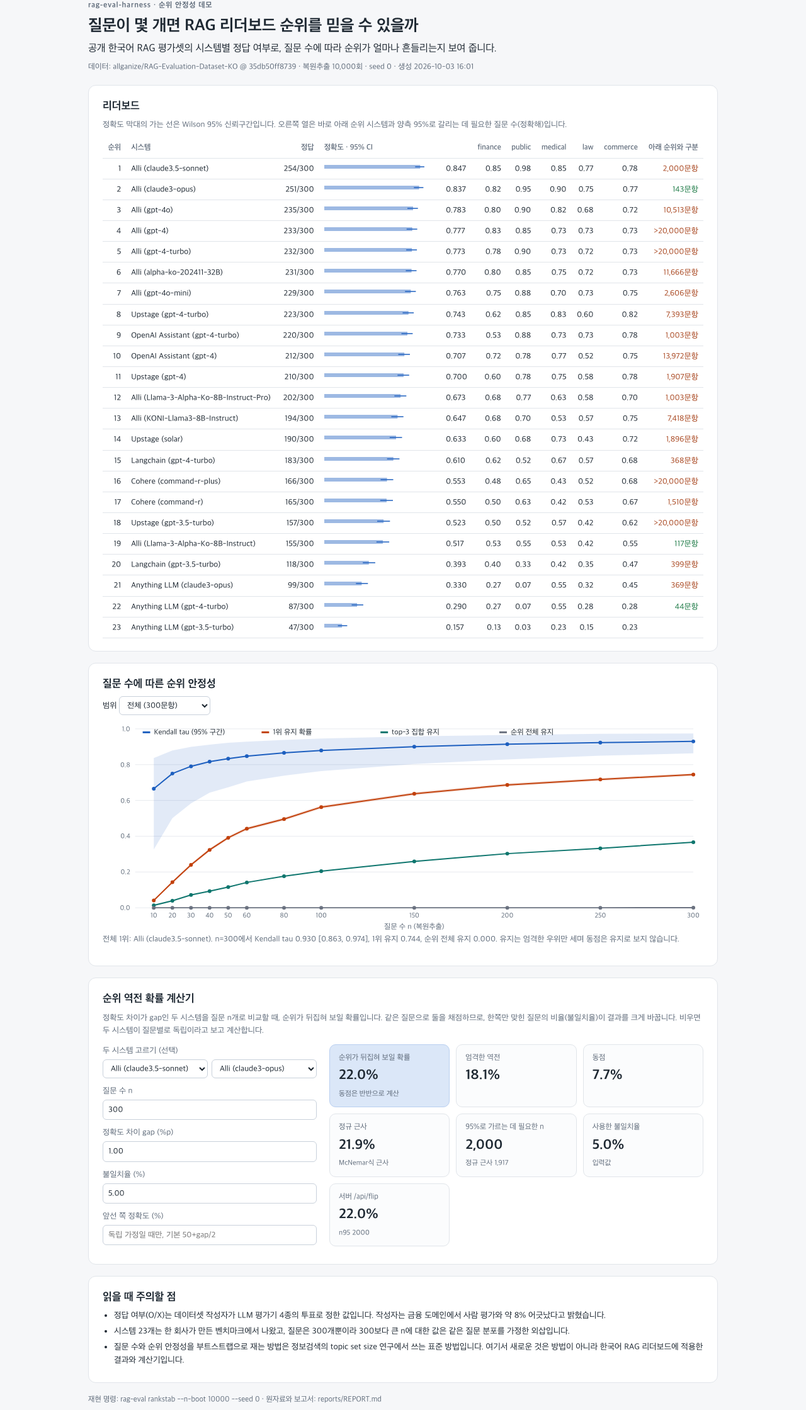
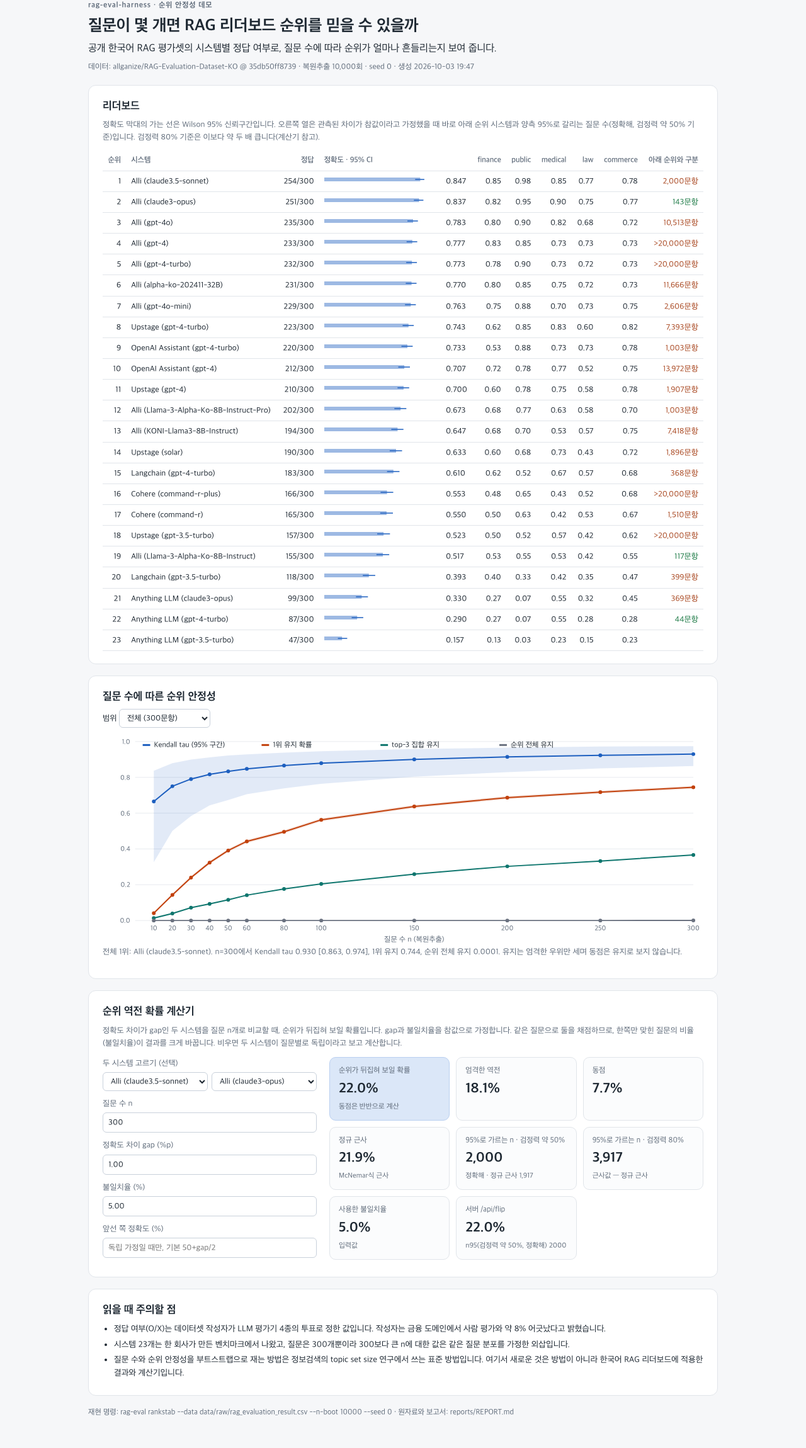
보고서·README 갱신: 반복 오차 구간 표기, 1-2위 McNemar p, 검정력 80% 기준, 순위 전체 유지 0.0001 표기

diff --git a/src/rag_eval/leaderboard_experiment.py b/src/rag_eval/leaderboard_experiment.py
@@ -153,6 +153,10 @@ def run(
             "n_sim_grid",
             "n_exact",
             "n_normal",
+            "n_power80_normal",
+            "n_upper_only",
+            "n_lower_only",
+            "mcnemar_p",
         ],
         [
             [
@@ -165,6 +169,10 @@ def run(
                 p["n_sim_grid"] if p["n_sim_grid"] is not None else "",
                 p["n_exact"] if p["n_exact"] is not None else "",
                 p["n_normal"],
+                p["n_power80_normal"],
+                p["n_pos"],
+                p["n_neg"],
+                p["mcnemar_p"],
             ]
             for p in pairs
         ],
@@ -284,10 +292,12 @@ def _plots(cm, overall, pairs, approx, domain_curves, sub: Path) -> None:
     labels = [f"{i + 1}-{i + 2}" for i in range(len(pairs))]
     exact = [p["n_exact"] if p["n_exact"] is not None else np.nan for p in pairs]
     normal = [p["n_normal"] for p in pairs]
+    power80 = [p["n_power80_normal"] for p in pairs]
     x = np.arange(len(pairs))
     fig, ax = plt.subplots(figsize=(9, 4))
-    ax.bar(x - 0.2, exact, width=0.4, label="exact (bootstrap distribution)")
-    ax.bar(x + 0.2, normal, width=0.4, label="normal approx")
+    ax.bar(x - 0.27, exact, width=0.27, label="~50% power, exact")
+    ax.bar(x, normal, width=0.27, label="~50% power, normal approx")
+    ax.bar(x + 0.27, power80, width=0.27, label="80% power, normal approx")
     ax.axhline(
         cm.X.shape[1],
         color="gray",
@@ -299,7 +309,7 @@ def _plots(cm, overall, pairs, approx, domain_curves, sub: Path) -> None:
     ax.set_xticks(x)
     ax.set_xticklabels(labels, rotation=90, fontsize=7)
     ax.set_xlabel("adjacent pair (overall rank i vs i+1)")
-    ax.set_ylabel("questions needed to separate at 95%")
+    ax.set_ylabel("questions to separate at 95%\n(observed gap taken as true)")
     ax.grid(alpha=0.3, axis="y")
     ax.legend(fontsize=8)
     fig.tight_layout()
@@ -400,7 +410,9 @@ def _render_report(cm, lb_rows, overall, pairs, approx, domain_curves, corr_rows
         "## 2. 질문 수에 따른 전체 순위 안정성",
         "",
         f"질문 n건을 {B}회 복원추출해 매긴 순위를 300문항 순위와 비교했습니다. "
-        "tau 구간은 반복값의 2.5~97.5 백분위, 확률 구간은 Wilson 95%(반복 수에서 오는 추정 오차)입니다. "
+        "tau 구간은 반복값의 2.5~97.5 백분위입니다. "
+        "확률 옆 구간은 반복 횟수에서 오는 몬테카를로 오차(Wilson 95%)일 뿐이며, "
+        "질문 표본 자체의 불확실성을 나타내지 않습니다. "
         "'유지'는 엄격한 우위만 셉니다(동점은 유지 아님). 원자료: `rank_stability/curve_overall.csv`",
         "",
     ]
@@ -414,7 +426,7 @@ def _render_report(cm, lb_rows, overall, pairs, approx, domain_curves, corr_rows
                 _f(1 - c["top1_held"]),
                 f"{_f(c['top3_held'])}" if "top3_held" in c else "—",
                 f"{_f(c['top5_held'])}" if "top5_held" in c else "—",
-                f"{_f(c['order_held'])}",
+                f"{_f(c['order_held'], 4)}",
             ]
         )
     p += [
@@ -422,7 +434,7 @@ def _render_report(cm, lb_rows, overall, pairs, approx, domain_curves, corr_rows
             [
                 "n",
                 "Kendall tau-b [95%]",
-                "1위 유지 [95%]",
+                "1위 유지 [반복 오차 95%]",
                 "1위 바뀜",
                 "top-3 집합 유지",
                 "top-5 집합 유지",
@@ -437,10 +449,13 @@ def _render_report(cm, lb_rows, overall, pairs, approx, domain_curves, corr_rows
         "",
         "## 3. 인접 순위 쌍을 가르는 데 필요한 질문 수",
         "",
-        "전체 순위에서 바로 이웃한 두 시스템마다, 차이의 부트스트랩 분포에서 P(위 시스템이 엄격히 앞섬) ≥ 0.975가 "
-        "되는(양측 95%로 갈리는) 질문 수입니다. "
-        "'격자'는 시뮬레이션 격자에서 그 n부터 끝까지 기준을 넘는 첫 값, '정확해'는 삼항 분포로 계산한 값, "
-        "'정규 근사'는 (1.96·σ/δ)²입니다(정확해 탐색 상한 20,000). 정확해·정규 근사가 300을 넘는 값은 같은 질문 분포를 가정한 외삽입니다. "
+        "전체 순위에서 바로 이웃한 두 시스템마다, 관측된 차이와 불일치율이 참값이라고 가정했을 때 "
+        "P(위 시스템이 엄격히 앞섬) ≥ 0.975가 되는(양측 95%로 갈리는) 질문 수입니다. "
+        "이 기준은 δ√n/σ ≈ 1.96 인 지점이라 검정력 약 50%에 해당합니다(그 n으로 새로 평가하면 절반쯤만 유의하게 갈림). "
+        "검정력 80% 기준은 ((1.96 + 0.84)·σ/δ)² 정규 근사로 따로 적었습니다. "
+        "'격자'는 시뮬레이션 격자에서 그 n부터 끝까지 기준을 넘는 첫 값, '정확해'는 삼항 분포로 계산한 값입니다(탐색 상한 20,000). "
+        "300을 넘는 값은 같은 질문 분포를 가정한 외삽입니다. "
+        "'위만/아래만'은 300문항 중 한쪽만 맞힌 질문 수이고, McNemar p는 그 불일치 쌍에 대한 양측 정확 검정입니다. "
         "원자료: `rank_stability/adjacent_pairs.csv`",
         "",
     ]
@@ -453,14 +468,29 @@ def _render_report(cm, lb_rows, overall, pairs, approx, domain_curves, corr_rows
                 pr["lower"],
                 _f(pr["gap"]),
                 _f(pr["discordance"]),
+                f"{pr['n_pos']}/{pr['n_neg']}",
+                "<0.0001" if pr["mcnemar_p"] < 1e-4 else _f(pr["mcnemar_p"], 4),
                 str(pr["n_sim_grid"]) if pr["n_sim_grid"] is not None else f">{Q}",
                 str(pr["n_exact"]) if pr["n_exact"] is not None else ">20000",
                 f"{pr['n_normal']:.0f}" if math.isfinite(pr["n_normal"]) else "—",
+                f"{pr['n_power80_normal']:.0f}" if math.isfinite(pr["n_power80_normal"]) else "—",
             ]
         )
     p += [
         _table(
-            ["순위", "위", "아래", "정확도 차", "불일치율", "격자(≤300)", "정확해", "정규 근사"],
+            [
+                "순위",
+                "위",
+                "아래",
+                "정확도 차",
+                "불일치율",
+                "위만/아래만",
+                "McNemar p",
+                "검정력 50%: 격자(≤300)",
+                "검정력 50%: 정확해",
+                "검정력 50%: 정규 근사",
+                "검정력 80%: 정규 근사",
+            ],
             body,
         ),
         "",
@@ -585,7 +615,13 @@ def _write_web(web_dir: Path, cm, lb_rows, overall, pairs, domain_curves, corr_r
             s: "".join(str(int(v)) for v in cm.X[i]) for i, s in enumerate(cm.systems)
         },
         "pairs": [
-            {**p, "n_normal": p["n_normal"] if math.isfinite(p["n_normal"]) else None}
+            {
+                **p,
+                "n_normal": p["n_normal"] if math.isfinite(p["n_normal"]) else None,
+                "n_power80_normal": (
+                    p["n_power80_normal"] if math.isfinite(p["n_power80_normal"]) else None
+                ),
+            }
             for p in pairs
         ],
     }

diff --git a/README.md b/README.md
@@ -14,7 +14,7 @@
 
 - 데이터 로더: Hugging Face 데이터셋을 고정 리비전에서 받아 SHA-256을 확인하고, 시스템 × 질문 정답 행렬과 도메인 라벨로 변환(O/X가 아닌 값이 있으면 오류)
 - 순위 안정성 분석: 질문 수 n별 부트스트랩으로 전체 순위와의 Kendall tau, 1위 유지 확률, top-3·top-5 집합 유지 확률, 순위 전체 유지 확률과 구간
-- 인접 순위 쌍 분석: 바로 이웃한 두 시스템을 양측 95%로 가르는 데 필요한 질문 수를 시뮬레이션·정확해·정규 근사로 각각 계산
+- 인접 순위 쌍 분석: 관측된 차이가 참값이라고 가정했을 때 바로 이웃한 두 시스템을 양측 95%로 가르는 질문 수(검정력 약 50% 기준: 시뮬레이션·정확해·정규 근사, 검정력 80% 기준: 정규 근사)와 300문항에서의 McNemar 정확 검정 p
 - 해석적 교차 검증: 쌍별 차이의 정확한 분포(삼항 분포의 합)와 McNemar식 정규 근사를 시뮬레이션과 비교
 - 도메인별 분석: 도메인(각 60문항) 1위와 1위가 될 확률, 도메인 순위와 전체 순위의 상관
 - 순위 역전 확률 계산기: n, 정확도 차이, 불일치율(선택)로 역전 확률과 필요한 질문 수를 계산하는 Python 함수, FastAPI 엔드포인트, 같은 식의 JavaScript 구현
@@ -59,7 +59,7 @@ make serve      # http://localhost:8000 — 데모 화면과 API
 |---|---|
 | `GET /api/leaderboard` | 정확도, Wilson 95% 구간, 도메인별 정확도 |
 | `GET /api/stability` | 전체·도메인별 안정성 곡선, 인접 쌍 분석 |
-| `GET /api/flip?n=&gap=&discordance=&accuracy=` | 역전 확률(정확해·정규 근사), 95%로 가르는 데 필요한 n |
+| `GET /api/flip?n=&gap=&discordance=&accuracy=` | 역전 확률(정확해·정규 근사), gap이 참값이라고 가정했을 때 95%로 가르는 n(검정력 약 50%·80%) |
 
 계산기는 라이브러리로도 씁니다.
 
@@ -67,7 +67,9 @@ make serve      # http://localhost:8000 — 데모 화면과 API
 from rag_eval.rankstab import flip_probability
 
 flip_probability(n=300, gap=0.01, discordance=0.05)
-# p_flip, p_reverse, p_tie, p_flip_normal, n_95_exact, n_95_normal
+# p_flip, p_reverse, p_tie, p_flip_normal,
+# n_95_exact, n_95_normal (gap이 참값이라고 가정한 양측 95% 분리, 검정력 약 50%),
+# n_power80_normal (같은 가정, 검정력 80%)
 ```
 
 <img src="docs/screenshots/demo.png" alt="데모 화면 — 리더보드, 안정성 곡선, 순위 역전 확률 계산기" width="820">
@@ -78,19 +80,19 @@ flip_probability(n=300, gap=0.01, discordance=0.05)
 
 데이터는 `allganize/RAG-Evaluation-Dataset-KO` 리비전 `35db50ff`의 시스템 23개 × 질문 300개(금융·공공·의료·법률·커머스 각 60개)입니다. 질문 집합을 복원추출 10,000회(seed 0) 재추출했습니다. 재현 정보와 전체 표는 [reports/REPORT.md](reports/REPORT.md)에 있습니다.
 
-질문 수에 따른 전체 순위 안정성 (`reports/rank_stability/curve_overall.csv`). tau 구간은 반복값의 2.5~97.5 백분위, 1위 유지 구간은 Wilson 95%입니다. 유지는 엄격한 우위만 세며 동점은 유지로 보지 않습니다.
+질문 수에 따른 전체 순위 안정성 (`reports/rank_stability/curve_overall.csv`). tau 구간은 반복값의 2.5~97.5 백분위입니다. 1위 유지 확률 옆 구간은 10,000회 반복에서 오는 반복(몬테카를로) 오차의 Wilson 95% 구간일 뿐이며, 질문 표본 자체의 불확실성은 나타내지 않습니다. 유지는 엄격한 우위만 세며 동점은 유지로 보지 않습니다.
 
-| 질문 수 n | Kendall tau-b [95%] | 1위 유지 확률 [95%] | top-3 집합 유지 | 순위 전체 유지 |
+| 질문 수 n | Kendall tau-b [95%] | 1위 유지 확률 [반복 오차 95%] | top-3 집합 유지 | 순위 전체 유지 |
 |---:|---|---|---:|---:|
-| 30 | 0.791 [0.583, 0.899] | 0.240 [0.231, 0.248] | 0.072 | 0.000 |
-| 50 | 0.833 [0.674, 0.922] | 0.391 [0.382, 0.401] | 0.116 | 0.000 |
-| 100 | 0.879 [0.764, 0.946] | 0.562 [0.553, 0.572] | 0.204 | 0.000 |
-| 300 | 0.930 [0.863, 0.974] | 0.744 [0.736, 0.753] | 0.366 | 0.000 |
+| 30 | 0.791 [0.583, 0.899] | 0.240 [0.231, 0.248] | 0.072 | 0.0000 |
+| 50 | 0.833 [0.674, 0.922] | 0.391 [0.382, 0.401] | 0.116 | 0.0000 |
+| 100 | 0.879 [0.764, 0.946] | 0.562 [0.553, 0.572] | 0.204 | 0.0000 |
+| 300 | 0.930 [0.863, 0.974] | 0.744 [0.736, 0.753] | 0.366 | 0.0001 |
 
-- 전체 300문항 기준 1위(Alli claude3.5-sonnet, 254/300)와 2위(Alli claude3-opus, 251/300)의 차이는 3문항입니다. 같은 크기(300문항)의 평가셋을 다시 뽑으면 1위가 유지되는 비율은 0.744 [0.736, 0.753]입니다 (`reports/rank_stability/curve_overall.csv`, n = 300).
-- 두 시스템 중 한쪽만 맞힌 질문은 15개(불일치율 0.050)입니다. 이 차이를 양측 95%로 가르려면 같은 질문 분포에서 정확해 기준 2,000문항, 정규 근사 기준 1,917문항이 필요합니다. 300을 넘는 값은 외삽입니다 (`reports/rank_stability/adjacent_pairs.csv`, 1-2위 쌍).
-- 바로 이웃한 순위 쌍 22개 중 300문항 안에서 정확해 기준으로 갈리는 쌍은 3개입니다(2-3위 143문항, 19-20위 117문항, 22-23위 44문항). 나머지 19개 쌍은 300문항으로 가를 수 없습니다 (`reports/rank_stability/adjacent_pairs.csv`).
-- 23개 시스템의 순위 전체가 유지된 경우는 n = 300에서도 10,000회 중 1회였습니다 (`reports/rank_stability/curve_overall.csv`, `order_held`).
+- 전체 300문항 기준 1위(Alli claude3.5-sonnet, 254/300)와 2위(Alli claude3-opus, 251/300)의 차이는 3문항입니다. 같은 크기(300문항)의 평가셋을 다시 뽑으면 1위가 유지되는 비율은 0.744입니다 (`reports/rank_stability/curve_overall.csv`, n = 300). 이 값의 실제 불확실성은 위 반복 오차 구간보다 훨씬 큽니다. 0.744는 두 시스템 중 한쪽만 맞힌 15개 질문이 9 대 6으로 갈린 결과 하나에 기대고 있고, 이 9 대 6 자체가 McNemar 정확 검정으로 p = 0.6072여서 우연과 구별되지 않습니다 (`reports/rank_stability/adjacent_pairs.csv`, 1-2위 쌍 `mcnemar_p`).
+- 관측된 차이(0.010)와 불일치율(0.050)이 참값이라고 가정하면, 1-2위를 양측 95%로 가르는 질문 수는 정확해 2,000문항(정규 근사 1,917문항)입니다. 이 기준은 δ√n/σ ≈ 1.96인 지점이라 검정력 약 50%에 해당하며, 같은 가정에서 검정력 80% 기준은 정규 근사로 3,917문항입니다. 모두 300을 넘는 외삽입니다 (`reports/rank_stability/adjacent_pairs.csv`, 1-2위 쌍 `n_exact`·`n_normal`·`n_power80_normal`).
+- 바로 이웃한 순위 쌍 22개 중, 관측 차이가 참값이라고 가정한 검정력 약 50% 기준(정확해)으로 300문항 안에서 갈리는 쌍은 3개입니다(2-3위 143문항, 19-20위 117문항, 22-23위 44문항). 같은 가정에서 검정력 80% 기준(정규 근사)은 각각 268, 221, 80문항입니다. 나머지 19개 쌍은 검정력 50% 기준으로도 300문항으로 가를 수 없습니다 (`reports/rank_stability/adjacent_pairs.csv`).
+- 23개 시스템의 순위 전체가 유지된 비율은 n = 300에서 0.0001(10,000회 중 1회)이었습니다 (`reports/rank_stability/curve_overall.csv`, `order_held`).
 
 시뮬레이션과 해석해 비교 (`reports/rank_stability/approx_check.csv`, 인접 쌍 22개 × n 12개 = 264개 지점):
 
@@ -153,7 +155,7 @@ rag-eval-harness/
 - 데이터를 쓰기 전에 데이터셋 카드와 파일을 대조했습니다. 23개 `*_ox` 열의 도메인별 정답 수가 카드의 리더보드 표와 모두 일치했고, 결측값은 없었습니다. 카드와 이름이 다른 열이 하나(`alli_Llama-3-Ko-8B-Finance-Evol` ↔ 카드의 "Alli (Llama-3-Alpha-Ko-8B-Instruct-Pro)") 있어, 정답 수가 도메인별로 모두 같은 것을 확인하고 카드 표기로 맞췄습니다.
 - 원본 CSV는 저장소에 넣지 않았습니다. MIT 라이선스라 넣을 수는 있지만 각 시스템의 답변 전문이 들어 있어 약 5.7MB이고, 분석에는 정답 여부만 필요합니다. 고정 리비전에서 받아 SHA-256을 확인하는 스크립트를 두고, 분석에 쓰는 0/1 행렬(파생 자료)만 `reports/`에 커밋했습니다.
 - 부트스트랩 결과를 정확해로 검증했습니다. 복원추출에서 두 시스템 차이의 합은 질문별 차이(+1, 0, -1)의 경험 분포를 따르는 삼항 분포의 합이므로 정확히 계산할 수 있습니다. 시뮬레이션과 정확해의 차이는 몬테카를로 오차뿐이어야 하고, 실제로 264개 지점에서 최대 0.016이었습니다.
-- "필요한 질문 수"는 "그 n부터 계속 기준을 넘는 최소 n"으로 정의했습니다. 짝수 n에서는 동점 확률 때문에 바로 앞 홀수 n보다 우위 확률이 낮아질 수 있어, 처음 기준을 넘는 n을 답으로 하면 그 다음 n에서 다시 기준 아래로 떨어지는 경우가 생깁니다. 홀수·짝수를 따로 탐색하고, 전수 탐색 결과와 같은지 테스트로 확인합니다.
+- "필요한 질문 수"는 관측된 차이와 불일치율을 참값으로 놓고 계산한 값입니다. P(우위) ≥ 0.975 기준은 δ√n/σ ≈ 1.96인 지점이라 검정력 약 50%에 해당하므로, 계획용으로는 검정력 80% 기준(약 두 배)을 함께 봐야 합니다. 그리고 "그 n부터 계속 기준을 넘는 최소 n"으로 정의했습니다. 짝수 n에서는 동점 확률 때문에 바로 앞 홀수 n보다 우위 확률이 낮아질 수 있어, 처음 기준을 넘는 n을 답으로 하면 그 다음 n에서 다시 기준 아래로 떨어지는 경우가 생깁니다. 홀수·짝수를 따로 탐색하고, 전수 탐색 결과와 같은지 테스트로 확인합니다.
 - 동점은 유지로 세지 않았습니다. 정확도가 1문항 단위로 갈리는 데이터라 재추출에서 동점이 자주 나옵니다. 동점을 유지로 세면 안정성이 실제보다 좋아 보이므로 1위·top-k·순위 전체 유지는 모두 엄격한 우위만 셉니다. 계산기의 역전 확률은 동점을 반반으로 나눈 값과 엄격한 역전·동점 확률을 따로 보여 줍니다.
 - 계산기는 불일치율을 입력으로 받습니다. 같은 질문으로 두 시스템을 채점하면 분산은 정확도가 아니라 한쪽만 맞힌 질문의 비율에 달려 있습니다. 이 데이터의 인접 순위 쌍에서도 같은 플랫폼끼리인 11쌍은 불일치율이 0.050~0.200(중앙값 0.147), 다른 플랫폼끼리인 11쌍은 0.160~0.443(중앙값 0.297)이었습니다(`reports/rank_stability/adjacent_pairs.csv`, 플랫폼은 시스템 이름의 괄호 앞부분으로 구분). 불일치율을 모를 때만 두 시스템이 독립이라고 가정합니다.
 - 웹 화면의 계산은 Python과 같은 식을 JavaScript로 옮겼고, Node가 있는 환경에서는 테스트가 두 구현의 결과를 비교합니다. 화면은 `results.json`만 읽어 정적 배포가 가능하고, 서버가 있으면 서버 결과를 함께 표시합니다.

diff --git a/reports/REPORT.md b/reports/REPORT.md
@@ -1,6 +1,6 @@
 # 한국어 RAG 리더보드 순위 안정성 — 실험 보고서
 
-생성: 2026-10-03 16:02 · `rag_eval.leaderboard_experiment` 가 자동 생성 (숫자를 손으로 적지 않음)
+생성: 2026-10-03 19:47 · `rag_eval.leaderboard_experiment` 가 자동 생성 (숫자를 손으로 적지 않음)
 
 ## 재현 정보
 
@@ -47,22 +47,22 @@
 
 ## 2. 질문 수에 따른 전체 순위 안정성
 
-질문 n건을 10000회 복원추출해 매긴 순위를 300문항 순위와 비교했습니다. tau 구간은 반복값의 2.5~97.5 백분위, 확률 구간은 Wilson 95%(반복 수에서 오는 추정 오차)입니다. '유지'는 엄격한 우위만 셉니다(동점은 유지 아님). 원자료: `rank_stability/curve_overall.csv`
+질문 n건을 10000회 복원추출해 매긴 순위를 300문항 순위와 비교했습니다. tau 구간은 반복값의 2.5~97.5 백분위입니다. 확률 옆 구간은 반복 횟수에서 오는 몬테카를로 오차(Wilson 95%)일 뿐이며, 질문 표본 자체의 불확실성을 나타내지 않습니다. '유지'는 엄격한 우위만 셉니다(동점은 유지 아님). 원자료: `rank_stability/curve_overall.csv`
 
-| n | Kendall tau-b [95%] | 1위 유지 [95%] | 1위 바뀜 | top-3 집합 유지 | top-5 집합 유지 | 순위 전체 유지 |
+| n | Kendall tau-b [95%] | 1위 유지 [반복 오차 95%] | 1위 바뀜 | top-3 집합 유지 | top-5 집합 유지 | 순위 전체 유지 |
 |---|---|---|---|---|---|---|
-| 10 | 0.665 [0.326, 0.837] | 0.041 [0.037, 0.045] | 0.959 | 0.013 | 0.008 | 0.000 |
-| 20 | 0.750 [0.501, 0.879] | 0.143 [0.136, 0.150] | 0.857 | 0.039 | 0.018 | 0.000 |
-| 30 | 0.791 [0.583, 0.899] | 0.240 [0.231, 0.248] | 0.760 | 0.072 | 0.030 | 0.000 |
-| 40 | 0.817 [0.644, 0.912] | 0.324 [0.315, 0.333] | 0.676 | 0.093 | 0.043 | 0.000 |
-| 50 | 0.833 [0.674, 0.922] | 0.391 [0.382, 0.401] | 0.609 | 0.116 | 0.053 | 0.000 |
-| 60 | 0.848 [0.705, 0.928] | 0.442 [0.432, 0.452] | 0.558 | 0.142 | 0.056 | 0.000 |
-| 80 | 0.866 [0.738, 0.938] | 0.496 [0.486, 0.505] | 0.504 | 0.176 | 0.074 | 0.000 |
-| 100 | 0.879 [0.764, 0.946] | 0.562 [0.553, 0.572] | 0.438 | 0.204 | 0.089 | 0.000 |
-| 150 | 0.901 [0.803, 0.958] | 0.637 [0.628, 0.647] | 0.363 | 0.259 | 0.116 | 0.000 |
-| 200 | 0.914 [0.829, 0.966] | 0.687 [0.678, 0.696] | 0.313 | 0.303 | 0.150 | 0.000 |
-| 250 | 0.923 [0.850, 0.972] | 0.718 [0.709, 0.726] | 0.282 | 0.332 | 0.175 | 0.000 |
-| 300 | 0.930 [0.863, 0.974] | 0.744 [0.736, 0.753] | 0.256 | 0.366 | 0.189 | 0.000 |
+| 10 | 0.665 [0.326, 0.837] | 0.041 [0.037, 0.045] | 0.959 | 0.013 | 0.008 | 0.0000 |
+| 20 | 0.750 [0.501, 0.879] | 0.143 [0.136, 0.150] | 0.857 | 0.039 | 0.018 | 0.0000 |
+| 30 | 0.791 [0.583, 0.899] | 0.240 [0.231, 0.248] | 0.760 | 0.072 | 0.030 | 0.0000 |
+| 40 | 0.817 [0.644, 0.912] | 0.324 [0.315, 0.333] | 0.676 | 0.093 | 0.043 | 0.0000 |
+| 50 | 0.833 [0.674, 0.922] | 0.391 [0.382, 0.401] | 0.609 | 0.116 | 0.053 | 0.0000 |
+| 60 | 0.848 [0.705, 0.928] | 0.442 [0.432, 0.452] | 0.558 | 0.142 | 0.056 | 0.0000 |
+| 80 | 0.866 [0.738, 0.938] | 0.496 [0.486, 0.505] | 0.504 | 0.176 | 0.074 | 0.0000 |
+| 100 | 0.879 [0.764, 0.946] | 0.562 [0.553, 0.572] | 0.438 | 0.204 | 0.089 | 0.0000 |
+| 150 | 0.901 [0.803, 0.958] | 0.637 [0.628, 0.647] | 0.363 | 0.259 | 0.116 | 0.0000 |
+| 200 | 0.914 [0.829, 0.966] | 0.687 [0.678, 0.696] | 0.313 | 0.303 | 0.150 | 0.0000 |
+| 250 | 0.923 [0.850, 0.972] | 0.718 [0.709, 0.726] | 0.282 | 0.332 | 0.175 | 0.0000 |
+| 300 | 0.930 [0.863, 0.974] | 0.744 [0.736, 0.753] | 0.256 | 0.366 | 0.189 | 0.0001 |
 
 ![tau](rank_stability/tau_vs_n.png)
 
@@ -70,32 +70,32 @@
 
 ## 3. 인접 순위 쌍을 가르는 데 필요한 질문 수
 
-전체 순위에서 바로 이웃한 두 시스템마다, 차이의 부트스트랩 분포에서 P(위 시스템이 엄격히 앞섬) ≥ 0.975가 되는(양측 95%로 갈리는) 질문 수입니다. '격자'는 시뮬레이션 격자에서 그 n부터 끝까지 기준을 넘는 첫 값, '정확해'는 삼항 분포로 계산한 값, '정규 근사'는 (1.96·σ/δ)²입니다(정확해 탐색 상한 20,000). 정확해·정규 근사가 300을 넘는 값은 같은 질문 분포를 가정한 외삽입니다. 원자료: `rank_stability/adjacent_pairs.csv`
+전체 순위에서 바로 이웃한 두 시스템마다, 관측된 차이와 불일치율이 참값이라고 가정했을 때 P(위 시스템이 엄격히 앞섬) ≥ 0.975가 되는(양측 95%로 갈리는) 질문 수입니다. 이 기준은 δ√n/σ ≈ 1.96 인 지점이라 검정력 약 50%에 해당합니다(그 n으로 새로 평가하면 절반쯤만 유의하게 갈림). 검정력 80% 기준은 ((1.96 + 0.84)·σ/δ)² 정규 근사로 따로 적었습니다. '격자'는 시뮬레이션 격자에서 그 n부터 끝까지 기준을 넘는 첫 값, '정확해'는 삼항 분포로 계산한 값입니다(탐색 상한 20,000). 300을 넘는 값은 같은 질문 분포를 가정한 외삽입니다. '위만/아래만'은 300문항 중 한쪽만 맞힌 질문 수이고, McNemar p는 그 불일치 쌍에 대한 양측 정확 검정입니다. 원자료: `rank_stability/adjacent_pairs.csv`
 
-| 순위 | 위 | 아래 | 정확도 차 | 불일치율 | 격자(≤300) | 정확해 | 정규 근사 |
-|---|---|---|---|---|---|---|---|
-| 1-2 | Alli (claude3.5-sonnet) | Alli (claude3-opus) | 0.010 | 0.050 | >300 | 2000 | 1917 |
-| 2-3 | Alli (claude3-opus) | Alli (gpt-4o) | 0.053 | 0.100 | 200 | 143 | 131 |
-| 3-4 | Alli (gpt-4o) | Alli (gpt-4) | 0.007 | 0.120 | >300 | 10513 | 10368 |
-| 4-5 | Alli (gpt-4) | Alli (gpt-4-turbo) | 0.003 | 0.130 | >300 | >20000 | 44941 |
-| 5-6 | Alli (gpt-4-turbo) | Alli (alpha-ko-202411-32B) | 0.003 | 0.150 | >300 | >20000 | 51856 |
-| 6-7 | Alli (alpha-ko-202411-32B) | Alli (gpt-4o-mini) | 0.007 | 0.133 | >300 | 11666 | 11521 |
-| 7-8 | Alli (gpt-4o-mini) | Upstage (gpt-4-turbo) | 0.020 | 0.267 | >300 | 2606 | 2557 |
-| 8-9 | Upstage (gpt-4-turbo) | OpenAI Assistant (gpt-4-turbo) | 0.010 | 0.190 | >300 | 7393 | 7295 |
-| 9-10 | OpenAI Assistant (gpt-4-turbo) | OpenAI Assistant (gpt-4) | 0.027 | 0.180 | >300 | 1003 | 969 |
-| 10-11 | OpenAI Assistant (gpt-4) | Upstage (gpt-4) | 0.007 | 0.160 | >300 | 13972 | 13825 |
-| 11-12 | Upstage (gpt-4) | Alli (Llama-3-Alpha-Ko-8B-Instruct-Pro) | 0.027 | 0.347 | >300 | 1907 | 1869 |
-| 12-13 | Alli (Llama-3-Alpha-Ko-8B-Instruct-Pro) | Alli (KONI-Llama3-8B-Instruct) | 0.027 | 0.180 | >300 | 1003 | 969 |
-| 13-14 | Alli (KONI-Llama3-8B-Instruct) | Upstage (solar) | 0.013 | 0.340 | >300 | 7418 | 7343 |
-| 14-15 | Upstage (solar) | Langchain (gpt-4-turbo) | 0.023 | 0.263 | >300 | 1896 | 1854 |
-| 15-16 | Langchain (gpt-4-turbo) | Cohere (command-r-plus) | 0.057 | 0.297 | >300 | 368 | 351 |
-| 16-17 | Cohere (command-r-plus) | Cohere (command-r) | 0.003 | 0.157 | >300 | >20000 | 54161 |
-| 17-18 | Cohere (command-r) | Upstage (gpt-3.5-turbo) | 0.027 | 0.273 | >300 | 1510 | 1473 |
-| 18-19 | Upstage (gpt-3.5-turbo) | Alli (Llama-3-Alpha-Ko-8B-Instruct) | 0.007 | 0.387 | >300 | >20000 | 33417 |
-| 19-20 | Alli (Llama-3-Alpha-Ko-8B-Instruct) | Langchain (gpt-3.5-turbo) | 0.123 | 0.443 | 150 | 117 | 108 |
-| 20-21 | Langchain (gpt-3.5-turbo) | Anything LLM (claude3-opus) | 0.063 | 0.403 | >300 | 399 | 382 |
-| 21-22 | Anything LLM (claude3-opus) | Anything LLM (gpt-4-turbo) | 0.040 | 0.147 | >300 | 369 | 348 |
-| 22-23 | Anything LLM (gpt-4-turbo) | Anything LLM (gpt-3.5-turbo) | 0.133 | 0.200 | 50 | 44 | 39 |
+| 순위 | 위 | 아래 | 정확도 차 | 불일치율 | 위만/아래만 | McNemar p | 검정력 50%: 격자(≤300) | 검정력 50%: 정확해 | 검정력 50%: 정규 근사 | 검정력 80%: 정규 근사 |
+|---|---|---|---|---|---|---|---|---|---|---|
+| 1-2 | Alli (claude3.5-sonnet) | Alli (claude3-opus) | 0.010 | 0.050 | 9/6 | 0.6072 | >300 | 2000 | 1917 | 3917 |
+| 2-3 | Alli (claude3-opus) | Alli (gpt-4o) | 0.053 | 0.100 | 23/7 | 0.0052 | 200 | 143 | 131 | 268 |
+| 3-4 | Alli (gpt-4o) | Alli (gpt-4) | 0.007 | 0.120 | 19/17 | 0.8679 | >300 | 10513 | 10368 | 21184 |
+| 4-5 | Alli (gpt-4) | Alli (gpt-4-turbo) | 0.003 | 0.130 | 20/19 | 1.0000 | >300 | >20000 | 44941 | 91824 |
+| 5-6 | Alli (gpt-4-turbo) | Alli (alpha-ko-202411-32B) | 0.003 | 0.150 | 23/22 | 1.0000 | >300 | >20000 | 51856 | 105952 |
+| 6-7 | Alli (alpha-ko-202411-32B) | Alli (gpt-4o-mini) | 0.007 | 0.133 | 21/19 | 0.8746 | >300 | 11666 | 11521 | 23539 |
+| 7-8 | Alli (gpt-4o-mini) | Upstage (gpt-4-turbo) | 0.020 | 0.267 | 43/37 | 0.5764 | >300 | 2606 | 2557 | 5225 |
+| 8-9 | Upstage (gpt-4-turbo) | OpenAI Assistant (gpt-4-turbo) | 0.010 | 0.190 | 30/27 | 0.7914 | >300 | 7393 | 7295 | 14905 |
+| 9-10 | OpenAI Assistant (gpt-4-turbo) | OpenAI Assistant (gpt-4) | 0.027 | 0.180 | 31/23 | 0.3409 | >300 | 1003 | 969 | 1979 |
+| 10-11 | OpenAI Assistant (gpt-4) | Upstage (gpt-4) | 0.007 | 0.160 | 25/23 | 0.8854 | >300 | 13972 | 13825 | 28248 |
+| 11-12 | Upstage (gpt-4) | Alli (Llama-3-Alpha-Ko-8B-Instruct-Pro) | 0.027 | 0.347 | 56/48 | 0.4926 | >300 | 1907 | 1869 | 3818 |
+| 12-13 | Alli (Llama-3-Alpha-Ko-8B-Instruct-Pro) | Alli (KONI-Llama3-8B-Instruct) | 0.027 | 0.180 | 31/23 | 0.3409 | >300 | 1003 | 969 | 1979 |
+| 13-14 | Alli (KONI-Llama3-8B-Instruct) | Upstage (solar) | 0.013 | 0.340 | 53/49 | 0.7666 | >300 | 7418 | 7343 | 15003 |
+| 14-15 | Upstage (solar) | Langchain (gpt-4-turbo) | 0.023 | 0.263 | 43/36 | 0.4999 | >300 | 1896 | 1854 | 3788 |
+| 15-16 | Langchain (gpt-4-turbo) | Cohere (command-r-plus) | 0.057 | 0.297 | 53/36 | 0.0893 | >300 | 368 | 351 | 717 |
+| 16-17 | Cohere (command-r-plus) | Cohere (command-r) | 0.003 | 0.157 | 24/23 | 1.0000 | >300 | >20000 | 54161 | 110661 |
+| 17-18 | Cohere (command-r) | Upstage (gpt-3.5-turbo) | 0.027 | 0.273 | 45/37 | 0.4397 | >300 | 1510 | 1473 | 3009 |
+| 18-19 | Upstage (gpt-3.5-turbo) | Alli (Llama-3-Alpha-Ko-8B-Instruct) | 0.007 | 0.387 | 59/57 | 0.9261 | >300 | >20000 | 33417 | 68277 |
+| 19-20 | Alli (Llama-3-Alpha-Ko-8B-Instruct) | Langchain (gpt-3.5-turbo) | 0.123 | 0.443 | 85/48 | 0.0017 | 150 | 117 | 108 | 221 |
+| 20-21 | Langchain (gpt-3.5-turbo) | Anything LLM (claude3-opus) | 0.063 | 0.403 | 70/51 | 0.1014 | >300 | 399 | 382 | 781 |
+| 21-22 | Anything LLM (claude3-opus) | Anything LLM (gpt-4-turbo) | 0.040 | 0.147 | 28/16 | 0.0961 | >300 | 369 | 348 | 712 |
+| 22-23 | Anything LLM (gpt-4-turbo) | Anything LLM (gpt-3.5-turbo) | 0.133 | 0.200 | 50/10 | <0.0001 | 50 | 44 | 39 | 80 |
 
 ![pairs](rank_stability/pairs_n_required.png)
 

diff --git a/reports/README.md b/reports/README.md
@@ -12,7 +12,7 @@
 | `rank_stability/leaderboard.csv` | 정확도, Wilson 95% 구간, 도메인별 정확도 |
 | `rank_stability/curve_overall.csv` | 질문 수 n별 Kendall tau, 1위·top-3·top-5·순위 전체 유지 확률 |
 | `rank_stability/curve_domain.csv` | 도메인별 같은 곡선 (n ≤ 60) |
-| `rank_stability/adjacent_pairs.csv` | 인접 순위 쌍별 정확도 차, 불일치율, 95%로 가르는 데 필요한 n(격자·정확해·정규 근사) |
+| `rank_stability/adjacent_pairs.csv` | 인접 순위 쌍별 정확도 차, 불일치율, 한쪽만 맞힌 질문 수, McNemar 정확 p, 관측 차이를 참값으로 가정한 95% 분리 n(검정력 약 50%: 격자·정확해·정규 근사, 검정력 80%: 정규 근사) |
 | `rank_stability/approx_check.csv` | 쌍 × n 마다 시뮬레이션·정확해·정규 근사 |
 | `rank_stability/domain_best_share.csv` | 도메인별 각 시스템의 1위 확률 (n = 60 복원추출) |
 | `rank_stability/domain_rank_corr.csv` | 도메인 순위와 전체 순위의 Kendall tau, 도메인 1위 |
